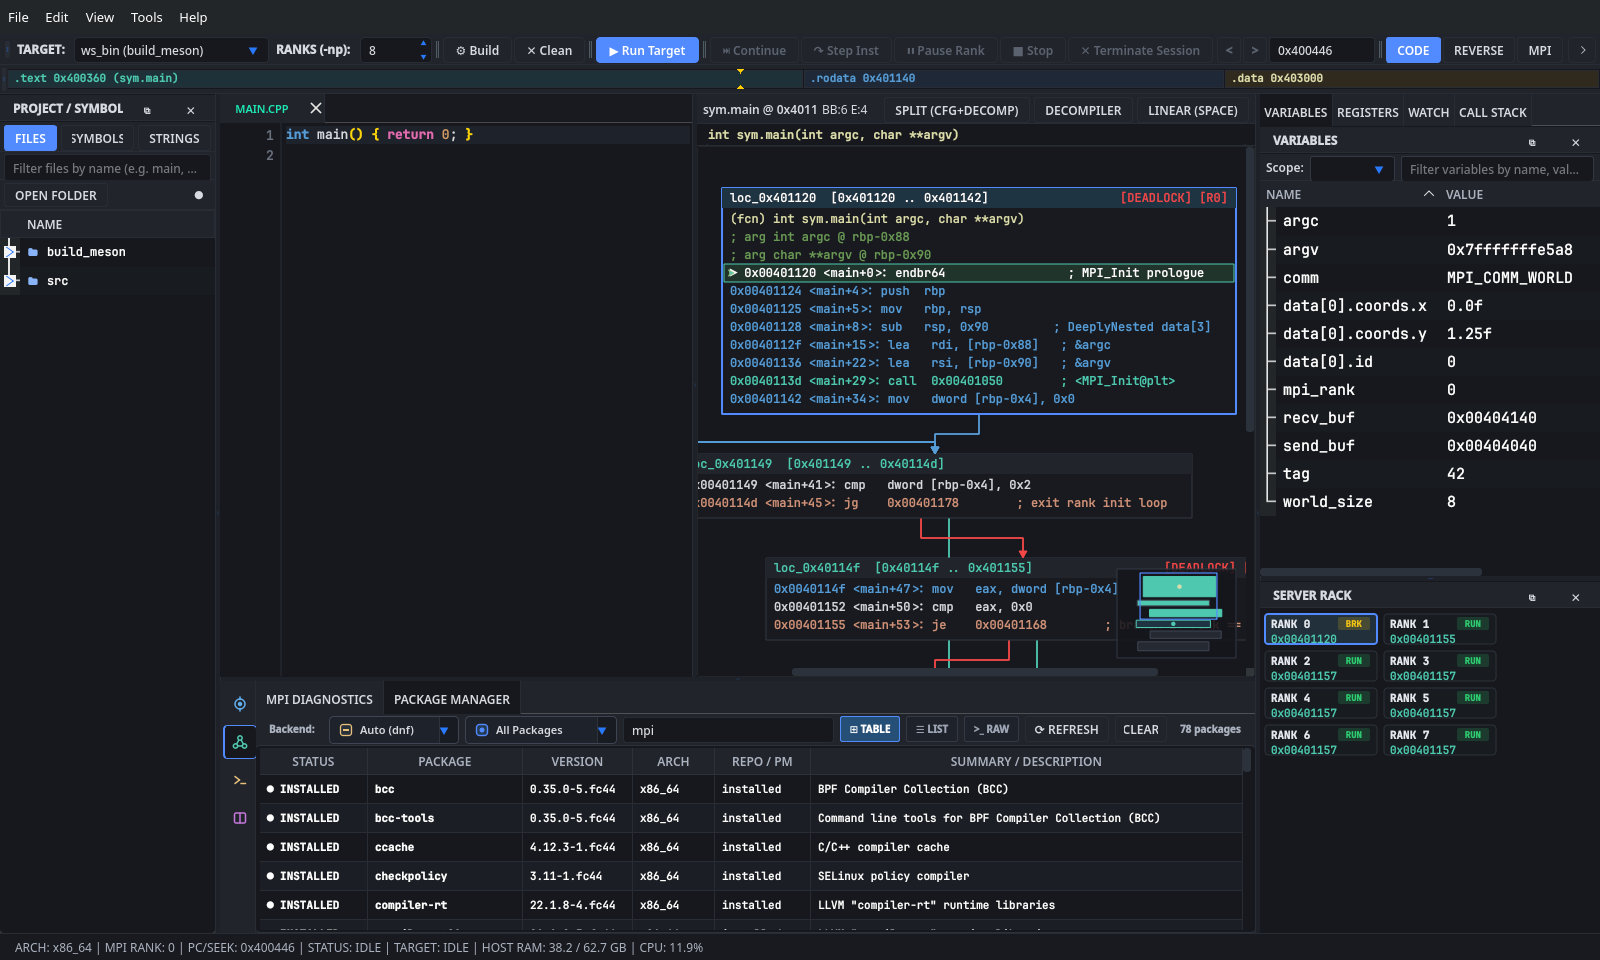
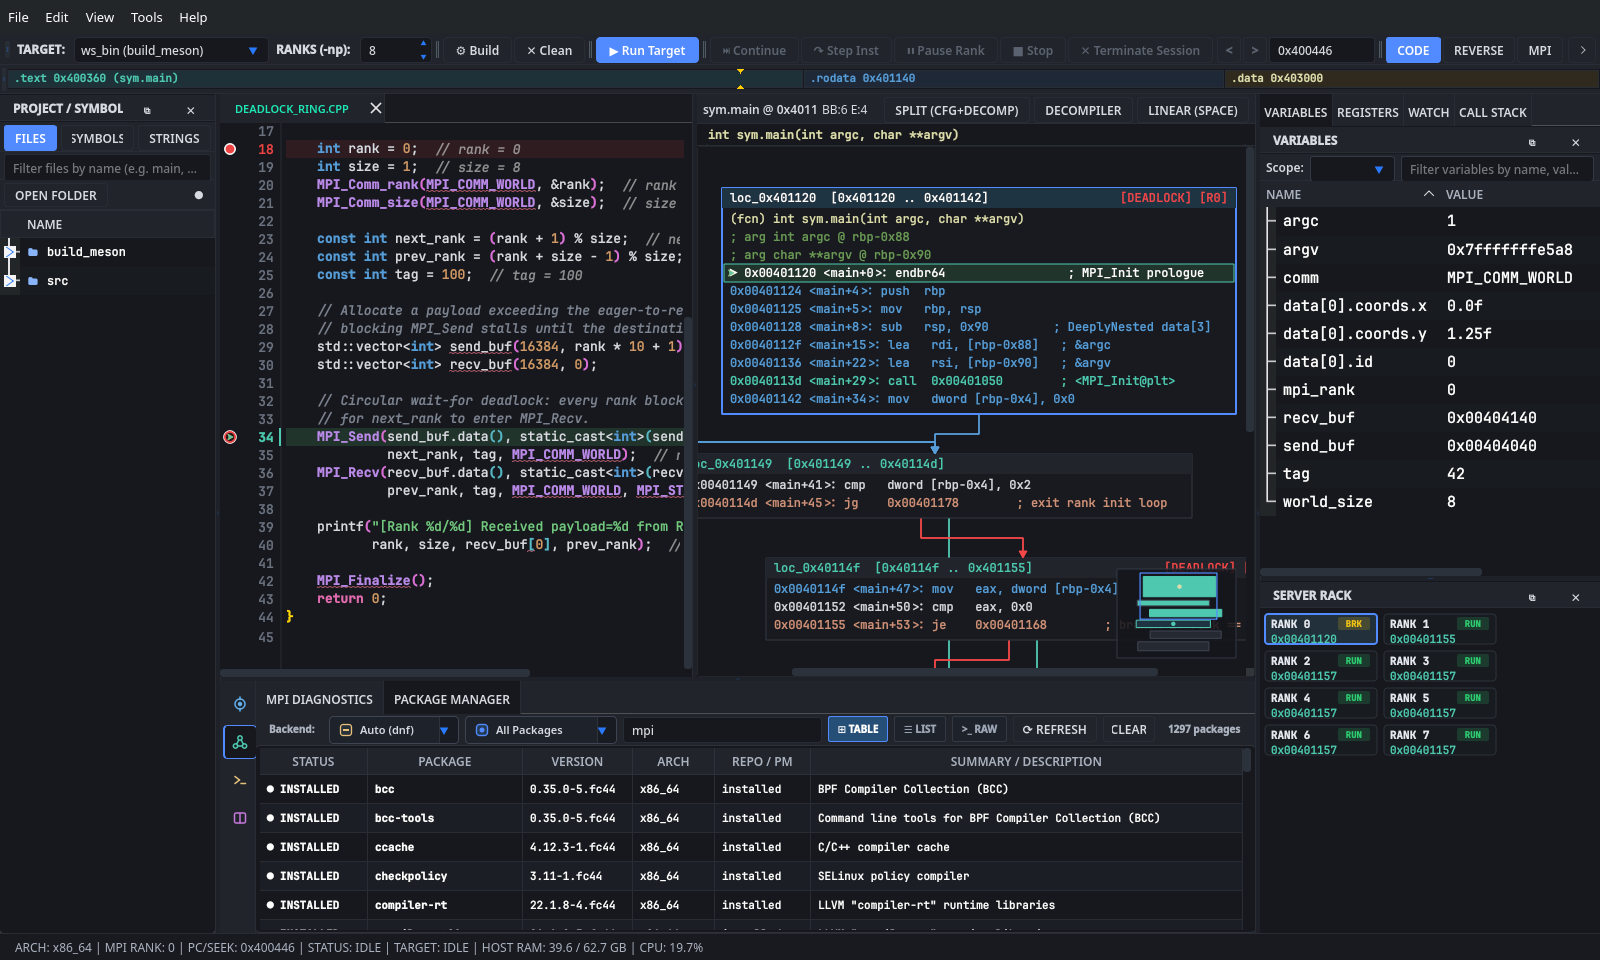
fix(screenshots): load real tutorial MPI source files and anchor breakpoint popovers to matching editor lines

diff --git a/src/ui/MainWindowCohesion.cpp b/src/ui/MainWindowCohesion.cpp
@@ -779,14 +779,39 @@ bool MainWindow::captureDocumentationScreenshots(const QString& outputDir) {
     resize(1600, 960);
     loadPreviewFixture();
     selectTargetByName(QStringLiteral("deadlock_ring"));
+    const QString deadlockSrc = resolveWorkspacePath(QStringLiteral("tutorial/deadlock_ring.cpp"));
+    if (m_editorTabManager && !deadlockSrc.isEmpty()) {
+        m_editorTabManager->clearAllTabs();
+        m_editorTabManager->openFile(deadlockSrc);
+    }
     show();
     QApplication::processEvents();
 
-    // Configure SourceCodeView breakpoints (line 18 standard, line 34 conditional) and execution line.
+    // Locate the actual MPI_Send line in tutorial/deadlock_ring.cpp and configure coherent state.
+    int bpLine = 34;
+    QString bpLineText = QStringLiteral("MPI_Send(send_buf.data(), static_cast<int>(send_buf.size()), MPI_INT,");
     if (auto* sv = sourceCodeView()) {
+        const QStringList srcLines = sv->toPlainText().split(QLatin1Char('\n'));
+        for (int i = 0; i < srcLines.size(); ++i) {
+            if (srcLines[i].contains(QStringLiteral("MPI_Send("))) {
+                bpLine = i + 1;
+                bpLineText = srcLines[i].trimmed();
+                break;
+            }
+        }
         if (!sv->hasBreakpoint(18)) sv->toggleBreakpoint(18);
-        sv->setConditionalBreakpoint(34, QStringLiteral("rank == 0"));
-        sv->highlightExecutionLine(34);
+        sv->setConditionalBreakpoint(bpLine, QStringLiteral("rank == 0"));
+        sv->highlightExecutionLine(bpLine);
+        sv->setInlineVariableValues({
+            {QStringLiteral("rank"), QStringLiteral("0")},
+            {QStringLiteral("size"), QStringLiteral("8")},
+            {QStringLiteral("next_rank"), QStringLiteral("1")},
+            {QStringLiteral("prev_rank"), QStringLiteral("7")},
+            {QStringLiteral("tag"), QStringLiteral("100")}
+        });
+        QTextCursor cur(sv->document()->findBlockByNumber(bpLine - 1));
+        sv->setTextCursor(cur);
+        sv->centerCursor();
     }
     auto saveGrab = [&](const QString& fn) -> bool {
         QApplication::processEvents();
@@ -818,14 +843,23 @@ bool MainWindow::captureDocumentationScreenshots(const QString& outputDir) {
     if (!saveGrab(QStringLiteral("cfg_decompiler_split.png"))) return false;
     setWorkspacePerspective(QStringLiteral("Code"));
 
-    // 2. Composite cursor-anchored ConditionalBreakpointDialog popover beneath line 34's gutter dot.
+    // 2. Composite cursor-anchored ConditionalBreakpointDialog popover directly beneath bpLine's gutter dot.
     {
         ConditionalBreakpointDialog popDlg(QStringLiteral("rank == 0"), this);
-        popDlg.setTargetLineContext(34, QStringLiteral("MPI_Send(send_buf.data(), ...);"));
+        popDlg.setTargetLineContext(bpLine, bpLineText);
         popDlg.adjustSize();
+        QPoint anchorPos(290, 260);
+        if (auto* sv = sourceCodeView()) {
+            QTextCursor bpCur(sv->document()->findBlockByNumber(bpLine - 1));
+            sv->setTextCursor(bpCur);
+            sv->centerCursor();
+            QApplication::processEvents();
+            const QRect lineRect = sv->cursorRect(bpCur);
+            anchorPos = sv->mapTo(this, QPoint(36, lineRect.bottom() + 4));
+        }
         QPixmap basePix = grab();
         QPainter painter(&basePix);
-        painter.drawPixmap(sourceCodeView() ? sourceCodeView()->mapTo(this, QPoint(44, 180)) : QPoint(290, 260), popDlg.grab());
+        painter.drawPixmap(anchorPos, popDlg.grab());
         painter.end();
         if (!basePix.save(dir.filePath(QStringLiteral("breakpoint_popover.png")), "PNG", 88)) return false;
     }
@@ -879,37 +913,17 @@ bool MainWindow::captureDocumentationScreenshots(const QString& outputDir) {
 
     // 7. Capture PointerGraphDialog populated with open-source MPI/C++ tutorial structs at 1280x800.
     {
-        PointerGraphDialog pgDlg(nullptr, this);
-        pgDlg.resize(1280, 800);
-        pgDlg.upsertStructNode(QStringLiteral("sim"), QStringLiteral("SimConfig"), QStringLiteral("0x7fff1000"),
-                               {{QStringLiteral("rank"), QStringLiteral("0"), QStringLiteral("int")},
-                                {QStringLiteral("domain"), QStringLiteral("0x7fff2000"), QStringLiteral("MeshDomain*")},
-                                {QStringLiteral("ring_head"), QStringLiteral("0x7fff3000"), QStringLiteral("RankRingNode*")}});
-        pgDlg.upsertStructNode(QStringLiteral("domain"), QStringLiteral("MeshDomain"), QStringLiteral("0x7fff2000"),
-                               {{QStringLiteral("nx"), QStringLiteral("256"), QStringLiteral("int")},
-                                {QStringLiteral("ny"), QStringLiteral("256"), QStringLiteral("int")},
-                                {QStringLiteral("root_field"), QStringLiteral("0x7fff4000"), QStringLiteral("FieldNode*")}},
-                               QStringLiteral("sim"), QStringLiteral("domain"));
-        pgDlg.upsertStructNode(QStringLiteral("ring_head"), QStringLiteral("RankRingNode"), QStringLiteral("0x7fff3000"),
-                               {{QStringLiteral("rank_id"), QStringLiteral("0"), QStringLiteral("int")},
-                                {QStringLiteral("next"), QStringLiteral("0x7fff3100"), QStringLiteral("RankRingNode*")}},
-                               QStringLiteral("sim"), QStringLiteral("ring_head"));
-        pgDlg.upsertStructNode(QStringLiteral("ring_peer"), QStringLiteral("RankRingNode"), QStringLiteral("0x7fff3100"),
-                               {{QStringLiteral("rank_id"), QStringLiteral("1"), QStringLiteral("int")},
-                                {QStringLiteral("next"), QStringLiteral("0x7fff3000"), QStringLiteral("RankRingNode*")}},
-                               QStringLiteral("ring_head"), QStringLiteral("next"));
-        pgDlg.upsertStructNode(QStringLiteral("root_field"), QStringLiteral("FieldNode"), QStringLiteral("0x7fff4000"),
-                               {{QStringLiteral("norm_l2"), QStringLiteral("1.41421"), QStringLiteral("double")},
-                                {QStringLiteral("size"), QStringLiteral("65536"), QStringLiteral("size_t")}},
-                               QStringLiteral("domain"), QStringLiteral("root_field"));
-        pgDlg.connectPointerField(QStringLiteral("sim"), QStringLiteral("domain"), QStringLiteral("0x7fff2000"));
-        pgDlg.connectPointerField(QStringLiteral("sim"), QStringLiteral("ring_head"), QStringLiteral("0x7fff3000"));
-        pgDlg.connectPointerField(QStringLiteral("domain"), QStringLiteral("root_field"), QStringLiteral("0x7fff4000"));
-        pgDlg.connectPointerField(QStringLiteral("ring_head"), QStringLiteral("next"), QStringLiteral("0x7fff3100"));
-        pgDlg.connectPointerField(QStringLiteral("ring_peer"), QStringLiteral("next"), QStringLiteral("0x7fff3000"));
-        pgDlg.autoLayoutNodes();
-        pgDlg.show();
-        QApplication::processEvents();
+        using F = PointerGraphDialog::StructFieldEntry;
+        PointerGraphDialog pgDlg(nullptr, this); pgDlg.resize(1280, 800);
+        pgDlg.upsertStructNode("sim", "SimConfig", "0x7fff1000", {F{"rank", "0", "int"}, F{"domain", "0x7fff2000", "MeshDomain*"}, F{"ring_head", "0x7fff3000", "RankRingNode*"}});
+        pgDlg.upsertStructNode("domain", "MeshDomain", "0x7fff2000", {F{"nx", "256", "int"}, F{"ny", "256", "int"}, F{"root_field", "0x7fff4000", "FieldNode*"}}, "sim", "domain");
+        pgDlg.upsertStructNode("ring_head", "RankRingNode", "0x7fff3000", {F{"rank_id", "0", "int"}, F{"next", "0x7fff3100", "RankRingNode*"}}, "sim", "ring_head");
+        pgDlg.upsertStructNode("ring_peer", "RankRingNode", "0x7fff3100", {F{"rank_id", "1", "int"}, F{"next", "0x7fff3000", "RankRingNode*"}}, "ring_head", "next");
+        pgDlg.upsertStructNode("root_field", "FieldNode", "0x7fff4000", {F{"norm_l2", "1.41421", "double"}, F{"size", "65536", "size_t"}}, "domain", "root_field");
+        pgDlg.connectPointerField("sim", "domain", "0x7fff2000"); pgDlg.connectPointerField("sim", "ring_head", "0x7fff3000");
+        pgDlg.connectPointerField("domain", "root_field", "0x7fff4000"); pgDlg.connectPointerField("ring_head", "next", "0x7fff3100");
+        pgDlg.connectPointerField("ring_peer", "next", "0x7fff3000"); pgDlg.autoLayoutNodes();
+        pgDlg.show(); QApplication::processEvents();
         if (!pgDlg.grab().save(dir.filePath(QStringLiteral("pointer_graph.png")), "PNG", 88)) return false;
     }
 
